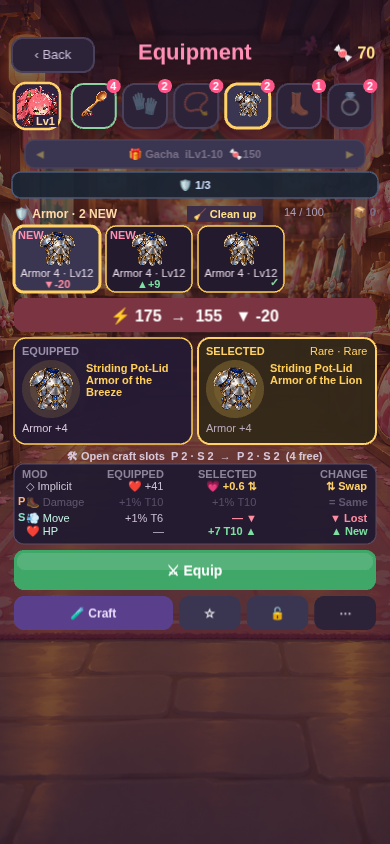
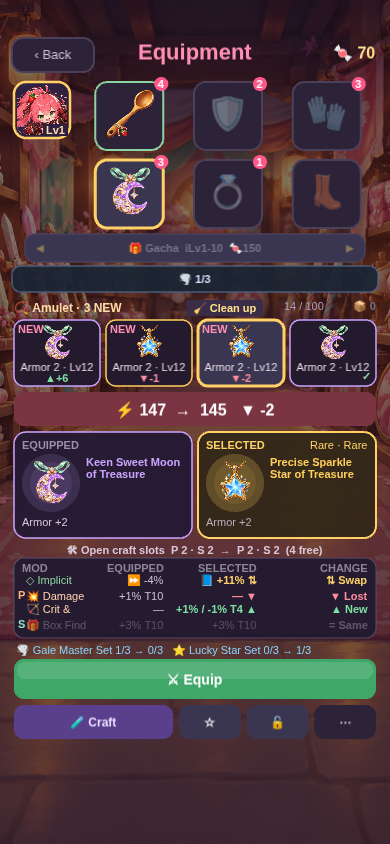
v6.55.54: show equipped gear large in a 3x2 grid
Claude-Session: https://claude.ai/code/session_01Je24fSjffqCWWdm2UGg2b2

diff --git a/game.js b/game.js
@@ -50,7 +50,7 @@ function clampPlayerStats(p){ if(p._uqGlass){p.maxhp=Math.max(1,Math.round(p.max
 const TAU = Math.PI * 2;   // global — Game scene (บอส/VFX) อ้างถึง TAU ด้วย เดิมประกาศเฉพาะใน Boot.create → "TAU is not defined"
 
 /* ---- เวอร์ชัน + บันทึกUpdates (build-www ดึงไปทำ version.json ให้หน้า download) ---- */
-const GAME_VERSION = '6.55.53';
+const GAME_VERSION = '6.55.54';
 // Miniboss rewards: choose damage at an HP cost, or recovery.
 const CROSSROADS=[
   {id:'blood',name:'Blood Pact',desc:'+25% damage for 90 seconds',detail:'Lose 30% of current HP',artKey:'prize_jackpot',color:0xff6f9d},
@@ -64,6 +64,7 @@ const RELEASES_URL = 'https://github.com/hardza1230/Survival-like-Mobile-Game/re
 
 function realStageBossMul(i){return i===2||i===3?1.6:i===4?1.25:1;}
 const CHANGELOG = [
+  {v:'6.55.54',date:'2026-10-05',title:'Worn gear on show',items:['Your six equipped pieces are shown large in a 3×2 grid next to the hero avatar']},
   {v:'6.55.53',date:'2026-10-05',title:'Balanced gear art',items:['Comparison cards: medium artwork on the left, name beside it','Grid icons sized down to fit more comfortably']},
   {v:'6.55.52',date:'2026-10-05',title:'Big gear art',items:['Equipment comparison shows large item artwork with a grade-coloured glow','Larger gear slot and grid icons']},
   {v:'6.55.51',date:'2026-10-05',title:'Compact hero',items:['Equipment: hero is a small avatar at the top-left; all six gear slots sit in one row']},
@@ -7690,22 +7691,23 @@ class Game extends Phaser.Scene {
     const sel=this.gearSlot||'weapon';
     // v6.55.48: ตัวละครเล็กลง + หุบได้ (Save.data.gearFold) → ตารางเทียบขึ้นมาใกล้ขึ้น
     // v6.55.51: ตัวละครเป็นอวาตาร์เล็กซ้ายสุด + ช่องสวมใส่ 6 ช่องแถวเดียว
-    const folded=true, cy0=78, topH=56, av=46, ax=14, ay=cy0+topH/2-av/2, key='card_'+id;
+    const folded=true, cy0=78, topH=150, av=56, ax=14, ay=cy0+4, key='card_'+id;
     { const fg=this.add.graphics(); fg.fillStyle(0x2e2140,1); fg.fillRoundedRect(ax,ay,av,av,12); this.menu.add(fg);
       if(this.textures.exists(key)){ const im=this.add.image(ax+av/2,ay+av/2,key),TW=im.width,TH=im.height,cw=TW*0.62,cx0=TW*0.19,cy1=TH*0.03;
         im.setCrop(cx0,cy1,cw,cw).setOrigin((cx0+cw/2)/TW,(cy1+cw/2)/TH).setScale((av-6)/cw); this.menu.add(im); }
       else { const em=this.add.text(ax+av/2,ay+av/2,CHARACTERS[id].emoji,{fontSize:'26px'}).setOrigin(0.5); this.menu.add(em); }
       const fr=this.add.graphics(); fr.lineStyle(4,0x2e2140,1); fr.strokeRoundedRect(ax+1,ay+1,av-2,av-2,12); fr.lineStyle(2.5,0xffd166,1); fr.strokeRoundedRect(ax,ay,av,av,12); this.menu.add(fr);
       const cp=Save.cp?Save.cp(id):null; if(cp){const lv=this.add.text(ax+av-2,ay+av-2,'Lv'+cp.lvl,{fontFamily:'sans-serif',fontStyle:'bold',fontSize:'11px',color:'#ffd9a8',backgroundColor:'#2e2140',padding:{x:3,y:0}}).setOrigin(1,1);this.menu.add(lv);} }
-    const x0=ax+av+8, step=(w-14-x0)/6, ss=Math.min(44,step-6), rowY=[cy0+topH/2];
-    const layout=['weapon','gloves','amulet','armor','boots','ring'].map((sl,i)=>[sl,x0+step*(i+0.5),0]);
+    // v6.55.54: ของที่สวมอยู่ใหญ่ชัด 3×2
+    const x0=ax+av+10, step=(w-14-x0)/3, ss=Math.min(68,step-12), rowY=[cy0+4+ss/2, cy0+4+ss*1.5+10];
+    const layout=['weapon','armor','gloves','amulet','ring','boots'].map((sl,i)=>[sl,x0+step*(i%3+0.5),Math.floor(i/3)]);
     layout.forEach(([slot,sx,ri])=>{ const y=rowY[ri];
       const def=GEAR_SLOTS.find(g=>g.slot===slot), curId=Save.data.gear[slot], it=GEAR[slot].find(g=>g.id===curId)||GEAR[slot][0];
       const lv=Save.gearLv(it.id), on=it.id.indexOf('_none')<0, isSel=slot===sel;
       const g=this.add.graphics(); g.fillStyle(isSel?0x3a3550:0x2c2338,1); g.fillRoundedRect(sx-ss/2,y-ss/2,ss,ss,12);
       g.lineStyle(isSel?3:2, isSel?0xffd166:(on?0x8bd3a0:0x4a4059), 1); g.strokeRoundedRect(sx-ss/2,y-ss/2,ss,ss,12);
       const artKey=on?'gear_'+it.id:null;
-      const em=artKey&&this.textures.exists(artKey)?this.add.image(sx,y-2,artKey).setDisplaySize(ss*0.72,ss*0.72):this.add.text(sx,y-2,on?it.emoji:def.emoji,{fontSize:Math.round(ss*0.5)+'px'}).setOrigin(0.5).setAlpha(on?1:0.4);
+      const em=artKey&&this.textures.exists(artKey)?this.add.image(sx,y-2,artKey).setDisplaySize(ss*0.86,ss*0.86):this.add.text(sx,y-2,on?it.emoji:def.emoji,{fontSize:Math.round(ss*0.5)+'px'}).setOrigin(0.5).setAlpha(on?1:0.4);
       this.menu.add([g,em]);
       const newN=Save.gearItemsForSlot(slot).filter(x=>x.isNew).length;
       if(newN){ const nd=this.add.circle(sx+ss/2-2,y-ss/2+2,7,0xff5689,1); const nn=this.add.text(nd.x,nd.y,String(Math.min(9,newN)),{fontFamily:'sans-serif',fontStyle:'bold',fontSize:'8px',color:'#ffffff'}).setOrigin(0.5); this.menu.add([nd,nn]); }

diff --git a/CLAUDE.md b/CLAUDE.md
@@ -255,7 +255,8 @@ Dedicated deterministic forge WAVs for manual/auto roulette, visual tick cadence
 - **v6.55.51 (เจ้าของ: ตัวละครไม่มีประโยชน์ เอาไว้มุมซ้ายเล็ก ๆ):** อวาตาร์ 46px ซ้ายสุด (ครอปหัว + Lv) + ช่องสวมใส่ 6 ช่องแถวเดียวเสมอ · ลบปุ่ม Hide (`gearFold` ไม่ใช้แล้ว) · แถบเซ็ทเต็มกว้าง
 - **v6.55.52 (เจ้าของ: อยากเห็นอาร์ตอาวุธ/เกราะใหญ่):** การ์ด EQUIPPED/SELECTED มีอาร์ตใหญ่ AH=min(92,0.22w) กลางการ์ด + วงแสงสีเกรด · ชื่อ 2 บรรทัดกลาง · กริดไอคอน 35→50px ช่องสูง 76
 - **v6.55.53 (เจ้าของ: ใหญ่เกิน):** การ์ดเทียบ อาร์ต AH=min(58,0.15w) ซ้าย + ชื่อขวา 3 บรรทัด · กริดไอคอน 42px ช่องสูง 66
-- **เวอร์ชันปัจจุบัน v6.55.53** (`GAME_VERSION`) · สาขา `claude/gallant-shannon-vx0est` · Monster animation commit 1–6 เสร็จ (ดูหัวไฟล์)
+- **v6.55.54 (เจ้าของ: ของที่ใส่อยู่ต้องเห็นชัด):** ช่องสวมใส่ 3×2 ใหญ่ ss≤68 อาร์ต 86% (weapon/armor/gloves · amulet/ring/boots) · อวาตาร์ 56px มุมซ้ายบน · topH 150
+- **เวอร์ชันปัจจุบัน v6.55.54** (`GAME_VERSION`) · สาขา `claude/gallant-shannon-vx0est` · Monster animation commit 1–6 เสร็จ (ดูหัวไฟล์)
 - **งานค้าง:** (1) Monster animation commit 7 Chapter 2 ด่าน 1–2 รวม Sporeling → 8 Nectar รวม Tiny Grub → 9 Season/Root → 10 Elite/summon รวม Mini Jelly + Chapter 3 generic Elite + รีวิวภาพ/ประสิทธิภาพบนมือถือ (`docs/MONSTER_ANIMATION_PLAN.md`) (2) รีวิวบนมือถือจริงที่ค้าง: Mint Piercer balance เท่านั้น (เจ้าของทดสอบผ่านแล้ว 4 ต.ค. 2026: monster animation 2–6, VFX batch 1–5, Boss Loot Keep/Double/Reroll, เสียงทั้งหมด) (3) Play Store (พักไว้): ลบบัญชีในแอป, store listing, keystore, closed test
 - **v6.54.9 (เจ้าของ: อยากได้การ์ดสุ่มแบบ Jackpot แทน):** onBossDown → `openBossLootCards` (การ์ดคว่ำ 3 ใบจาก 7 ชนิด: Sugar/Currency/พลั่ว/ด้าย/🔩/หินแก่น/Gear · JACKPOT 25%+10%/ระดับยาก) แล้วค่อย revealStageReward · openMysteryCards รับ opt {prizes,title,hint} + fallback emoji ถ้าไม่มี artKey · ยกเลิก Sugar Bounty v6.54.8 (บอสยังไม่ดรอป orb/หัวใจ)
 - **v6.54.8 (เจ้าของ: ของดรอปบอสไร้ประโยชน์เพราะจบด่าน):** killEnemy บอสใหญ่ไม่ dropOrb/dropHeal → Sugar Bounty (60+30·stage)×diff reward เข้า sugarStage ตรง + แบนเนอร์ · มินิ/elite ดรอปเหมือนเดิม
